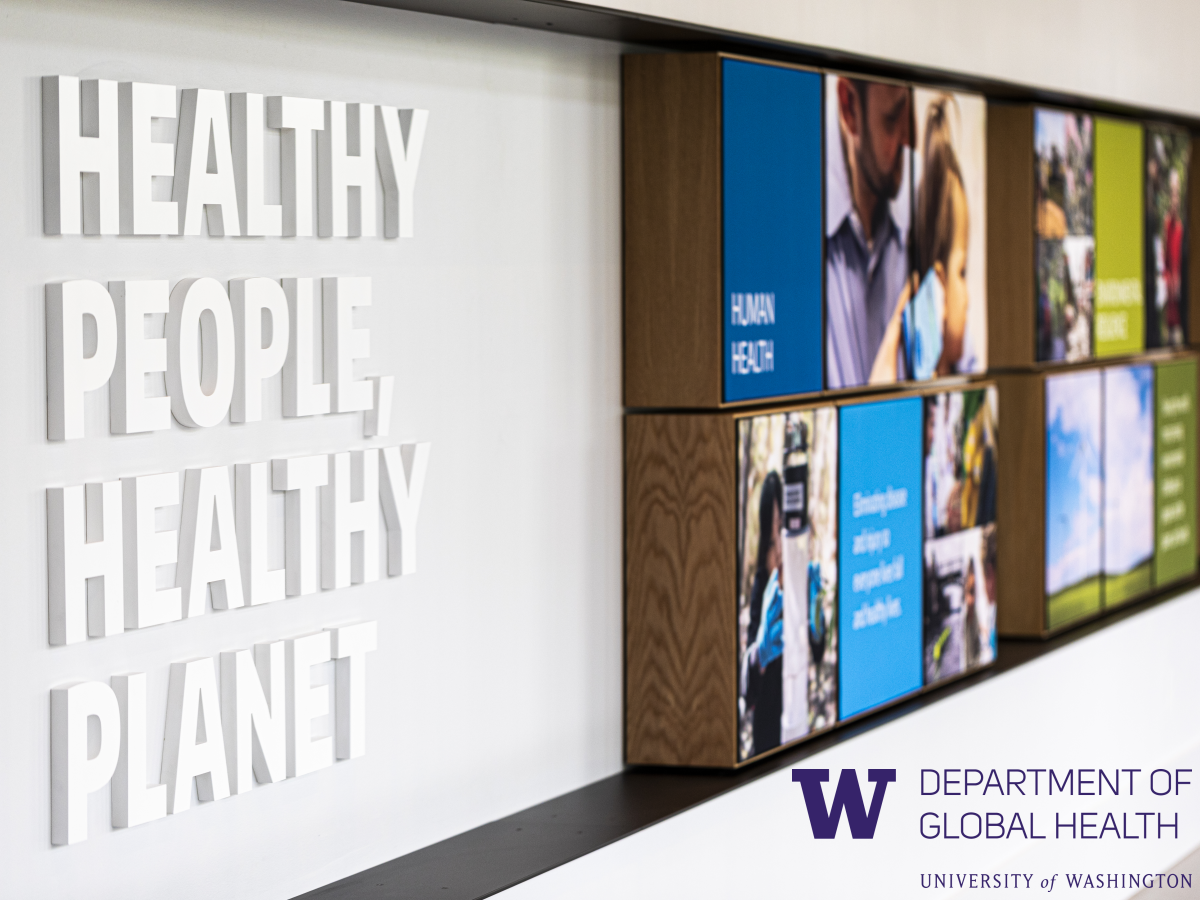
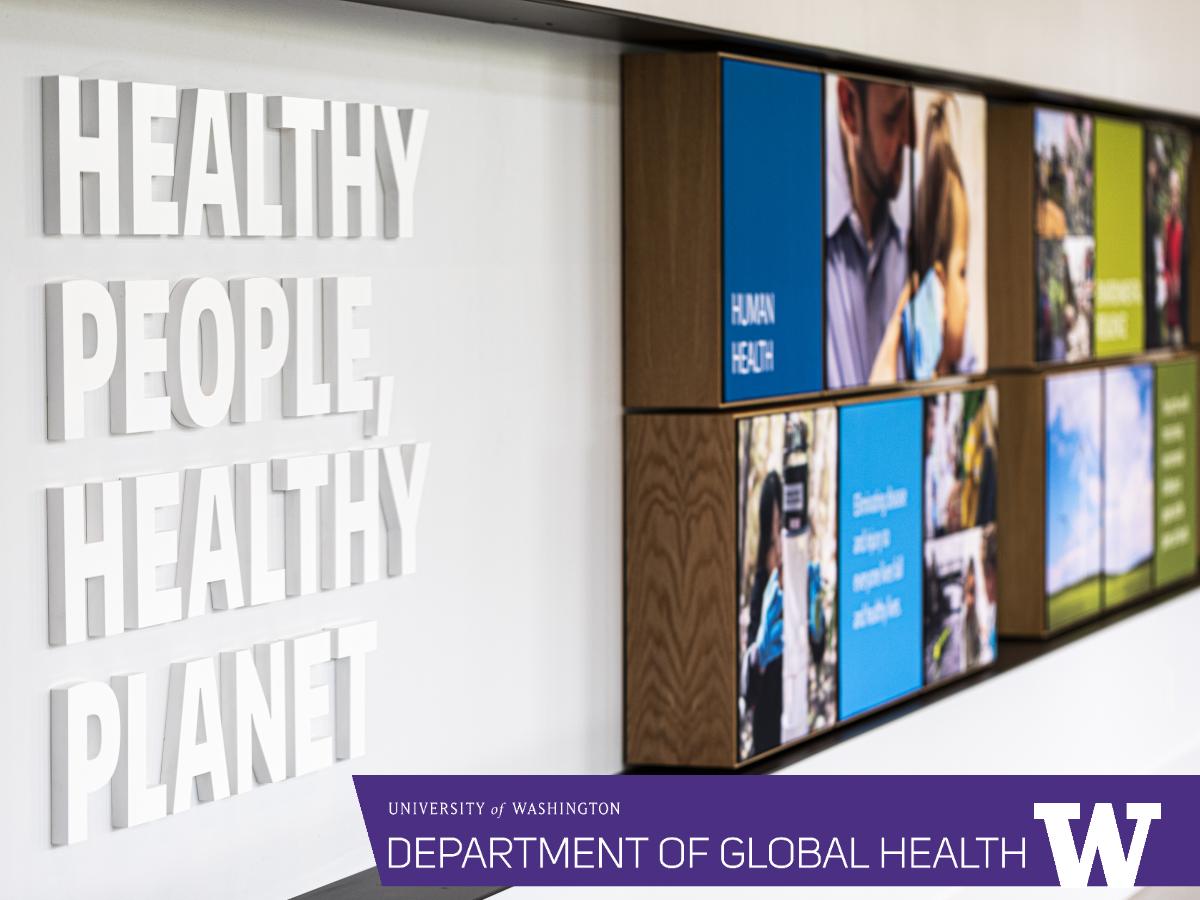
update header wordmark link. update theme screenshot

Changed region(s): [[0.2775, 0.84, 1.0, 0.9956]]

diff --git a/header.php b/header.php
@@ -80,7 +80,7 @@
 			<div class="navbar navbar-expand-lg">
 				<div class="navbar-brand site-branding">
 					<a href="https://uw.edu" title="University of Washington Home" class="uw-patch">University of Washington</a>
-					<a href="https://globalhealth.washington.edu" title="University of Washington - Department of Global Health Home" class="uw-wordmark" tabindex="-1" aria-hidden="true">University of Washington - Department of Global Health</a>
+					<a href="<?php echo home_url('/'); ?>" title="<?php echo get_bloginfo('name'); ?> Home" class="uw-wordmark" tabindex="-1" aria-hidden="true"><?php echo get_bloginfo('name'); ?></a>
 				</div><!-- .site-branding -->
 
 				<div id="site-navigation" class="main-navigation" aria-label="<?php esc_attr_e( 'Main menu', 'uw_wp_theme' ); ?>">
